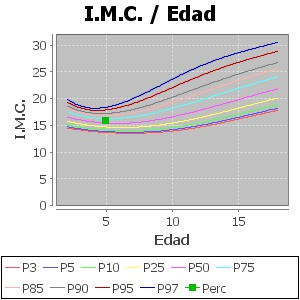
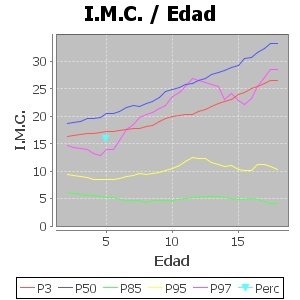
Terminado graficas en Orbegozo en el formulario AntroAdoles, revisar los valores de la bbdd en AdolesOrbegozoV en IMC por que la grafica no da valores muy correctos

diff --git a/trunk/Otosal/src/otosal/AntroAdoles.java b/trunk/Otosal/src/otosal/AntroAdoles.java
@@ -781,6 +781,11 @@ public class AntroAdoles extends javax.swing.JDialog {
         BGGrafica.add(RBPBE);
         RBPBE.setText("Perimetro braquial / Edad");
         RBPBE.setName("RBPBE"); // NOI18N
+        RBPBE.addActionListener(new java.awt.event.ActionListener() {
+            public void actionPerformed(java.awt.event.ActionEvent evt) {
+                RBPBEActionPerformed(evt);
+            }
+        });
 
         RBIE.setBackground(new java.awt.Color(229, 184, 183));
         BGGrafica.add(RBIE);
@@ -998,7 +1003,7 @@ public class AntroAdoles extends javax.swing.JDialog {
                 LPL.setEnabled(false);
                 LPTE.setEnabled(true);
                 RBTE.setEnabled(true);
-                RBPE.setEnabled(false);
+                RBPE.setEnabled(true);
                 RBPBE.setEnabled(true);
                 RBPT.setEnabled(false);
                 RBIE.setEnabled(true);
@@ -2523,6 +2528,63 @@ public class AntroAdoles extends javax.swing.JDialog {
             } catch (Exception ex) {
                 System.out.println(ex);
             }
+        } else if (RBOrbegozo.isSelected()) {
+            try {
+                conexion = DriverManager.getConnection(baseDatos);
+                instruccion = conexion.createStatement();
+                ResultSet rs=null;
+                if (RBVaron.isSelected())
+                    rs = instruccion.executeQuery("Select * from AdolesOrbegozoV");
+                else if (RBHembra.isSelected())
+                    rs = instruccion.executeQuery("Select * from AdolesOrbegozoM");
+                XYSeries seriep3 = new XYSeries("P3");
+                XYSeries seriep50 = new XYSeries("P50");
+                XYSeries seriep97 = new XYSeries("P97");
+                XYSeries serieInt = new XYSeries("Perc");
+                while (rs.next()) {
+                    seriep3.add(rs.getDouble(2), rs.getDouble(3));
+                    seriep50.add(rs.getDouble(2), rs.getDouble(4));
+                    seriep97.add(rs.getDouble(2), rs.getDouble(5));
+                }
+                rs.close();
+                instruccion.close();
+                conexion.close();
+                XYSeriesCollection juegoDatos= new XYSeriesCollection();
+                juegoDatos.addSeries(seriep3);
+                juegoDatos.addSeries(seriep50);
+                juegoDatos.addSeries(seriep97);
+                serieInt.add(Double.parseDouble(calcularMeses(TFFechNac.getText()).toString()), Double.parseDouble(TFLongitud.getText().trim()));
+                juegoDatos.addSeries(serieInt);
+
+                JFreeChart chart = ChartFactory.createXYLineChart ("Longitud / Edad",
+                        "Edad","Longitud",juegoDatos,PlotOrientation.VERTICAL,
+                        true,
+                        true,
+                        true                // Show legend
+                        );
+
+                XYPlot plot =  (XYPlot) chart.getPlot();
+                XYLineAndShapeRenderer renderer = (XYLineAndShapeRenderer) plot.getRenderer();
+                //Puntos en las líneas o no
+                renderer.setSeriesShapesVisible(0, false);
+                renderer.setSeriesShapesVisible(1, false);
+                renderer.setSeriesShapesVisible(2, false);
+                renderer.setSeriesShapesVisible(3, true);
+                
+                try {
+                    ChartUtilities.saveChartAsJPEG(new File("grafico.jpg"), chart, 300, 300);
+                } catch (Exception ex) {
+                    System.out.println(ex);
+                }
+
+                File nombreFich = new File("grafico.jpg");
+
+                cargarImagen(DPImagen, nombreFich);
+
+
+            } catch (Exception ex) {
+                System.out.println(ex);
+            }
         }
     }//GEN-LAST:event_RBTEActionPerformed
 
@@ -2667,6 +2729,63 @@ public class AntroAdoles extends javax.swing.JDialog {
                 renderer.setSeriesShapesVisible(8, false);
                 renderer.setSeriesShapesVisible(9, true);
 
+                try {
+                    ChartUtilities.saveChartAsJPEG(new File("grafico.jpg"), chart, 300, 300);
+                } catch (Exception ex) {
+                    System.out.println(ex);
+                }
+
+                File nombreFich = new File("grafico.jpg");
+
+                cargarImagen(DPImagen, nombreFich);
+
+
+            } catch (Exception ex) {
+                System.out.println(ex);
+            }
+        } else if (RBOrbegozo.isSelected()) {
+            try {
+                conexion = DriverManager.getConnection(baseDatos);
+                instruccion = conexion.createStatement();
+                ResultSet rs=null;
+                if (RBVaron.isSelected())
+                    rs = instruccion.executeQuery("Select * from AdolesOrbegozoV");
+                else if (RBHembra.isSelected())
+                    rs = instruccion.executeQuery("Select * from AdolesOrbegozoM");
+                XYSeries seriep3 = new XYSeries("P3");
+                XYSeries seriep50 = new XYSeries("P50");
+                XYSeries seriep97 = new XYSeries("P97");
+                XYSeries serieInt = new XYSeries("Perc");
+                while (rs.next()) {
+                    seriep3.add(rs.getDouble(2), rs.getDouble(6));
+                    seriep50.add(rs.getDouble(2), rs.getDouble(7));
+                    seriep97.add(rs.getDouble(2), rs.getDouble(8));
+                }
+                rs.close();
+                instruccion.close();
+                conexion.close();
+                XYSeriesCollection juegoDatos= new XYSeriesCollection();
+                juegoDatos.addSeries(seriep3);
+                juegoDatos.addSeries(seriep50);
+                juegoDatos.addSeries(seriep97);
+                serieInt.add(Double.parseDouble(calcularMeses(TFFechNac.getText()).toString()), Double.parseDouble(TFPeso.getText().trim()));
+                juegoDatos.addSeries(serieInt);
+
+                JFreeChart chart = ChartFactory.createXYLineChart ("Peso / Edad",
+                        "Edad","Peso",juegoDatos,PlotOrientation.VERTICAL,
+                        true,
+                        true,
+                        true                // Show legend
+                        );
+
+                XYPlot plot =  (XYPlot) chart.getPlot();
+                XYLineAndShapeRenderer renderer = (XYLineAndShapeRenderer) plot.getRenderer();
+                //Puntos en las líneas o no
+                renderer.setSeriesShapesVisible(0, false);
+                renderer.setSeriesShapesVisible(1, false);
+                renderer.setSeriesShapesVisible(2, false);
+                renderer.setSeriesShapesVisible(3, true);
+                
                 try {
                     ChartUtilities.saveChartAsJPEG(new File("grafico.jpg"), chart, 300, 300);
                 } catch (Exception ex) {
@@ -2843,12 +2962,154 @@ public class AntroAdoles extends javax.swing.JDialog {
             } catch (Exception ex) {
                 System.out.println(ex);
             }
+        } else if (RBOrbegozo.isSelected()) {
+            try {
+                conexion = DriverManager.getConnection(baseDatos);
+                instruccion = conexion.createStatement();
+                ResultSet rs=null;
+                if (RBVaron.isSelected())
+                    rs = instruccion.executeQuery("Select * from AdolesOrbegozoV");
+                else if (RBHembra.isSelected())
+                    rs = instruccion.executeQuery("Select * from AdolesOrbegozoM");
+                XYSeries seriep3 = new XYSeries("P3");
+                XYSeries seriep50 = new XYSeries("P50");
+                XYSeries seriep85 = new XYSeries("P85");
+                XYSeries seriep90 = new XYSeries("P95");
+                XYSeries seriep97 = new XYSeries("P97");
+                XYSeries serieInt = new XYSeries("Perc");
+                while (rs.next()) {
+                    seriep3.add(rs.getDouble(2), rs.getDouble(17));
+                    seriep50.add(rs.getDouble(2), rs.getDouble(20));
+                    seriep85.add(rs.getDouble(2), rs.getDouble(21));
+                    seriep90.add(rs.getDouble(2), rs.getDouble(22));
+                    seriep97.add(rs.getDouble(2), rs.getDouble(23));
+                }
+                rs.close();
+                instruccion.close();
+                conexion.close();
+                XYSeriesCollection juegoDatos= new XYSeriesCollection();
+                juegoDatos.addSeries(seriep3);
+                juegoDatos.addSeries(seriep50);
+                juegoDatos.addSeries(seriep85);
+                juegoDatos.addSeries(seriep90);
+                juegoDatos.addSeries(seriep97);
+                serieInt.add(Double.parseDouble(calcularMeses(TFFechNac.getText()).toString()), Double.parseDouble(TFIMC.getText().trim()));
+                juegoDatos.addSeries(serieInt);
+
+                JFreeChart chart = ChartFactory.createXYLineChart ("I.M.C. / Edad",
+                        "Edad","I.M.C.",juegoDatos,PlotOrientation.VERTICAL,
+                        true,
+                        true,
+                        true                // Show legend
+                        );
+
+                XYPlot plot =  (XYPlot) chart.getPlot();
+                XYLineAndShapeRenderer renderer = (XYLineAndShapeRenderer) plot.getRenderer();
+                //Puntos en las líneas o no
+                renderer.setSeriesShapesVisible(0, false);
+                renderer.setSeriesShapesVisible(1, false);
+                renderer.setSeriesShapesVisible(2, false);
+                renderer.setSeriesShapesVisible(3, false);
+                renderer.setSeriesShapesVisible(4, false);
+                renderer.setSeriesShapesVisible(5, true);
+
+                try {
+                    ChartUtilities.saveChartAsJPEG(new File("grafico.jpg"), chart, 300, 300);
+                } catch (Exception ex) {
+                    System.out.println(ex);
+                }
+
+                File nombreFich = new File("grafico.jpg");
+
+                cargarImagen(DPImagen, nombreFich);
+
+
+            } catch (Exception ex) {
+                System.out.println(ex);
+            }
         }
     }//GEN-LAST:event_RBIEActionPerformed
 
     private void RBSiriActionPerformed(java.awt.event.ActionEvent evt) {//GEN-FIRST:event_RBSiriActionPerformed
         
     }//GEN-LAST:event_RBSiriActionPerformed
+
+    private void RBPBEActionPerformed(java.awt.event.ActionEvent evt) {//GEN-FIRST:event_RBPBEActionPerformed
+       if (RBOrbegozo.isSelected()) {
+            try {
+                conexion = DriverManager.getConnection(baseDatos);
+                instruccion = conexion.createStatement();
+                ResultSet rs=null;
+                if (RBVaron.isSelected())
+                    rs = instruccion.executeQuery("Select * from AdolesOrbegozoV");
+                else if (RBHembra.isSelected())
+                    rs = instruccion.executeQuery("Select * from AdolesOrbegozoM");
+                XYSeries seriep3 = new XYSeries("P3");
+                XYSeries seriep10 = new XYSeries("P10");
+                XYSeries seriep25 = new XYSeries("P25");
+                XYSeries seriep50 = new XYSeries("P50");
+                XYSeries seriep75 = new XYSeries("P75");
+                XYSeries seriep90 = new XYSeries("P90");
+                XYSeries seriep97 = new XYSeries("P97");
+                XYSeries serieInt = new XYSeries("Perc");
+                while (rs.next()) {
+                    seriep3.add(rs.getDouble(2), rs.getDouble(14));
+                    seriep10.add(rs.getDouble(2), rs.getDouble(15));
+                    seriep25.add(rs.getDouble(2), rs.getDouble(16));
+                    seriep50.add(rs.getDouble(2), rs.getDouble(17));
+                    seriep75.add(rs.getDouble(2), rs.getDouble(18));
+                    seriep90.add(rs.getDouble(2), rs.getDouble(19));
+                    seriep97.add(rs.getDouble(2), rs.getDouble(20));
+                }
+                rs.close();
+                instruccion.close();
+                conexion.close();
+                XYSeriesCollection juegoDatos= new XYSeriesCollection();
+                juegoDatos.addSeries(seriep3);
+                juegoDatos.addSeries(seriep10);
+                juegoDatos.addSeries(seriep25);
+                juegoDatos.addSeries(seriep50);
+                juegoDatos.addSeries(seriep75);
+                juegoDatos.addSeries(seriep90);
+                juegoDatos.addSeries(seriep97);
+                serieInt.add(Double.parseDouble(calcularMeses(TFFechNac.getText()).toString()), Double.parseDouble(TFPeso.getText().trim()));
+                juegoDatos.addSeries(serieInt);
+
+                JFreeChart chart = ChartFactory.createXYLineChart ("Peso / Edad",
+                        "Edad","Peso",juegoDatos,PlotOrientation.VERTICAL,
+                        true,
+                        true,
+                        true                // Show legend
+                        );
+
+                XYPlot plot =  (XYPlot) chart.getPlot();
+                XYLineAndShapeRenderer renderer = (XYLineAndShapeRenderer) plot.getRenderer();
+                //Puntos en las líneas o no
+                renderer.setSeriesShapesVisible(0, false);
+                renderer.setSeriesShapesVisible(1, false);
+                renderer.setSeriesShapesVisible(2, false);
+                renderer.setSeriesShapesVisible(3, false);
+                renderer.setSeriesShapesVisible(4, false);
+                renderer.setSeriesShapesVisible(5, false);
+                renderer.setSeriesShapesVisible(6, false);
+                renderer.setSeriesShapesVisible(7, true);
+
+                try {
+                    ChartUtilities.saveChartAsJPEG(new File("grafico.jpg"), chart, 300, 300);
+                } catch (Exception ex) {
+                    System.out.println(ex);
+                }
+
+                File nombreFich = new File("grafico.jpg");
+
+                cargarImagen(DPImagen, nombreFich);
+
+
+            } catch (Exception ex) {
+                System.out.println(ex);
+            }
+        }
+    }//GEN-LAST:event_RBPBEActionPerformed
 
     public  void cargarImagen(javax.swing.JDesktopPane jDeskp,File fileImagen)
     {
